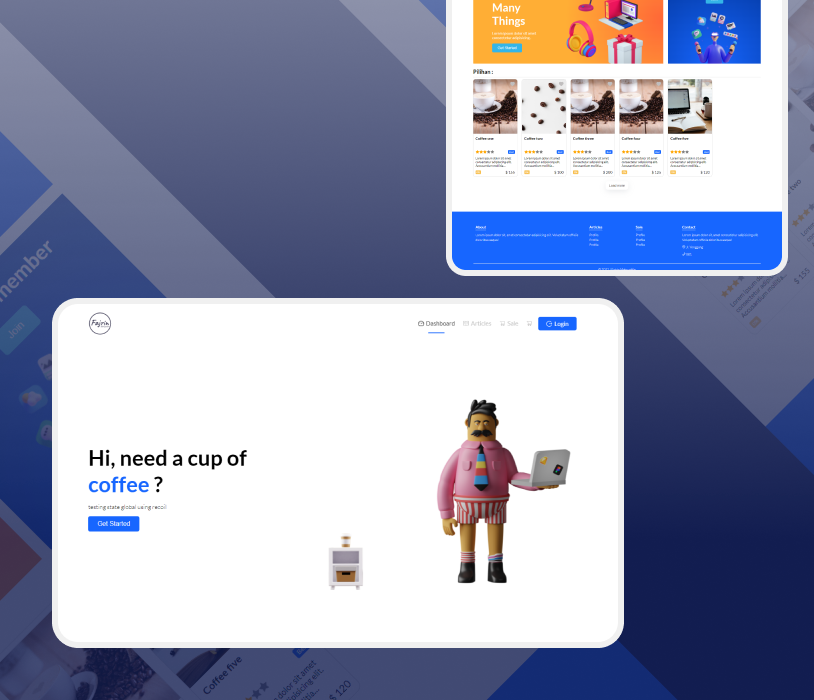
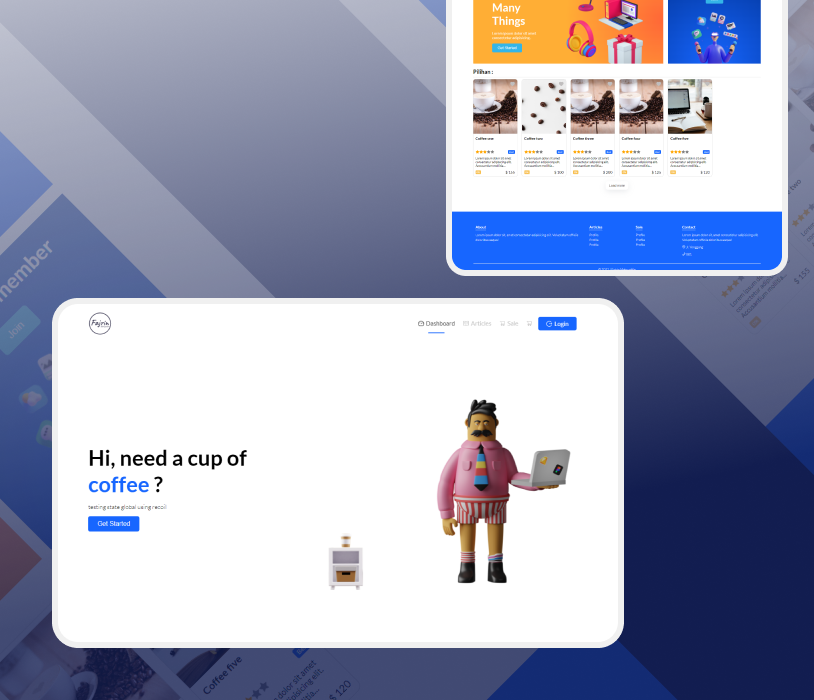
update animation for project list section

Changed region(s): [[0.0, 0.0, 0.5528, 0.66]]

diff --git a/src/components/organisims/ProjectSection.js b/src/components/organisims/ProjectSection.js
@@ -7,17 +7,28 @@ import {
   Heading,
   Image,
   Text,
+  keyframes,
 } from "@chakra-ui/react";
 import project_one from "assets/images/project-1.png";
 import project_two from "assets/images/project-2.png";
 import project_three from "assets/images/project-3.png";
 import { GitIcon, ContainerMaxWidth, LivePreviewIcon } from "components";
 
+const rotateAnim = keyframes`
+  from {
+    transform: rotate(0);
+  }
+  to {
+    transform: rotate(360deg);
+  }
+`;
+
 const projects = [
   {
     img: project_one,
     name: "Landing Page",
     desc: "This landing page was built using native JavaScript and CSS. It features smooth animations like sliding cards, smooth scrolling, and is very lightweight. The shadow color enhances its appearance even more.",
+    color: "#F26440",
     liveUrl: "https://landing-page-fajrin.netlify.app",
     codeRepo: "https://github.com/Fajrin-Mahyuddin/landing-page-lasles-vpn",
   },
@@ -25,6 +36,7 @@ const projects = [
     img: project_two,
     name: "Coffe and Blog",
     desc: "This website serves as an example of a marketplace and is built using NextJS. The content focuses on selling coffee makers and includes some blog posts about coffee. Additionally, it features news content retrieved from another API website. The technologies used include Firebase, GraphQL, and Sass. Please note that this website is not yet completed and is currently under development.",
+    color: "#131E51",
     liveUrl: "https://coffee-app-ssr.vercel.app",
     codeRepo: "https://github.com/Fajrin-Mahyuddin/coffee-app-ssr",
   },
@@ -32,6 +44,7 @@ const projects = [
     img: project_three,
     name: "Official Website",
     desc: "This official website served as my senior high school project, providing various information about profiles, registration for new students, blogs, student activities, and more. I used Laravel, InertiaJS, and ReactJS to build this website. Overcoming numerous challenges, I successfully completed it, and the process significantly contributed to enhancing both my experience and skills.",
+    color: "#A1CE3F",
     liveUrl: "#",
     codeRepo: "https://github.com/Fajrin-Mahyuddin/smkn2-majene",
   },
@@ -85,20 +98,48 @@ const ProjectSeciton = () => {
                     overflow="hidden"
                     width={["100%", "100%", "50%"]}
                     borderRadius={["15px", "15px", "20px"]}
-                    // boxShadow="rgba(149, 157, 165, 0.2) 0px 8px 24px"
+                    padding="6px"
+                    display="flex"
+                    justifyContent="center"
+                    alignItems="center"
+                    _hover={{
+                      "::after": {
+                        width: "45%",
+                        animation: `${rotateAnim} 3s linear infinite`,
+                      },
+                    }}
+                    pos="relative"
+                    _after={{
+                      content: `""`,
+                      transition: "width .3s",
+                      position: "absolute",
+                      height: "150%",
+                      width: "0%",
+                      background: `linear-gradient(90deg, ${item.color} 24%, ${item.color} 49%)`,
+                    }}
                   >
-                    <Image src={item.img} alt="item scroll" />
+                    <Image
+                      borderRadius={["15px", "15px", "20px"]}
+                      zIndex={2}
+                      pos="relative"
+                      cursor="pointer"
+                      src={item.img}
+                      alt="item scroll"
+                      style={{
+                        WebkitTapHighlightColor: "transparent",
+                      }}
+                    />
                   </Box>
                   <Flex
                     gap={6}
-                    bottom={0}
-                    left={0}
-                    width="100%"
+                    zIndex={4}
+                    inset="6px"
                     flexDir="column"
                     whiteSpace="wrap"
+                    userSelect="none"
                     transition="all .3s"
                     p={["10px", "10px", "0"]}
-                    height={["100%", "100%", "auto"]}
+                    width={["auto", "auto", "100%"]}
                     borderRadius={["15px", "15px", "0"]}
                     position={["absolute", "absolute", "static"]}
                     bgColor={["#f8f7f1", "#f8f7f1", "transparent"]}
